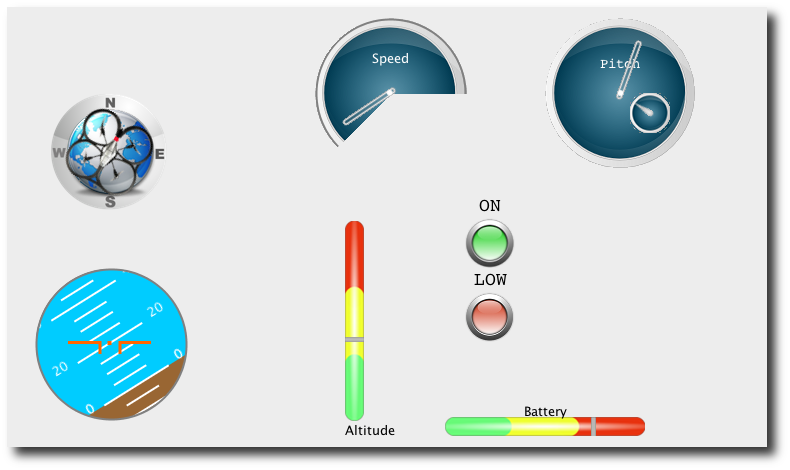
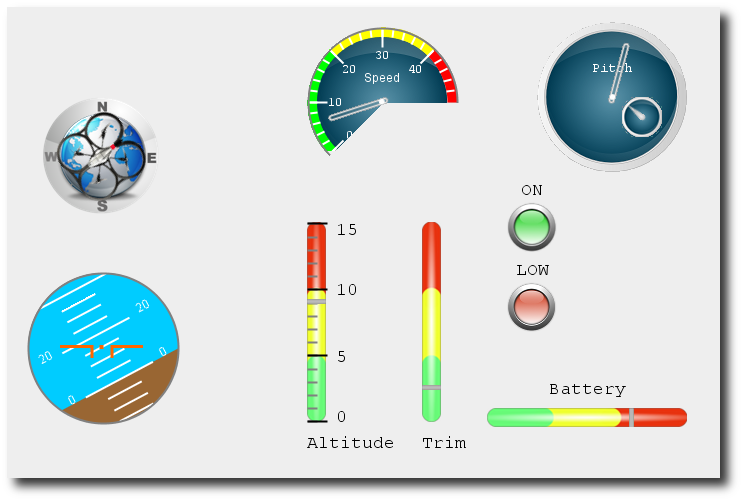
Update cockpit picture.

diff --git a/src/jmp/ui/component/test/TestCockpit.java b/src/jmp/ui/component/test/TestCockpit.java
@@ -196,7 +196,7 @@ public class TestCockpit extends JFrame{
 		rollSlider.setBorder(BorderFactory.createTitledBorder("Roll"));
 		sliderPane.add(rollSlider);
 		
-		final JSlider speedSlider = new JSlider(JSlider.HORIZONTAL,0,100,0);
+		final JSlider speedSlider = new JSlider(JSlider.HORIZONTAL,0,50,0);
 		speedSlider.setToolTipText("Speed");
 		speedSlider.setMajorTickSpacing(50);
 		speedSlider.setMinorTickSpacing(10);
@@ -501,9 +501,9 @@ public class TestCockpit extends JFrame{
 		dialTicksRenderingModel.setLabelColor(Color.WHITE);
 		dialTicksRenderingModel.setMajorTickSize(25);
 		ColoredRanges colorRanges = new ColoredRanges();
-		colorRanges.addRange(new ColoredRange(0, 40, Color.GREEN));
-		colorRanges.addRange(new ColoredRange(40, 80, Color.YELLOW));
-		colorRanges.addRange(new ColoredRange(80, 100, Color.RED));
+		colorRanges.addRange(new ColoredRange(0, 20, Color.GREEN));
+		colorRanges.addRange(new ColoredRange(20, 40, Color.YELLOW));
+		colorRanges.addRange(new ColoredRange(40, 50, Color.RED));
 		DialColoredRenderingModel colorModel = new DialColoredRenderingModel();
 		colorModel.setColorRanges(colorRanges);
 		colorModel.setThickness(10);
@@ -512,7 +512,8 @@ public class TestCockpit extends JFrame{
 		ticksModel.setMinorGraduationColor(Color.WHITE);
 		ticksModel.setMajorTickSize(20);
 		ticksModel.setMinorTickSize(10);
-		ticksModel.setMinorTickSpacing(10);
+		ticksModel.setMajorTickSpacing(10);
+		ticksModel.setMinorTickSpacing(2);
 		ticksModel.setLabelColor(Color.WHITE);
 		ticksModel.setLabelFont(new Font("Monospaced", Font.PLAIN, 12));
 		ticksModel.setLabelSpace(3);
@@ -522,7 +523,7 @@ public class TestCockpit extends JFrame{
 		model.addModel("border", new DialBorderRenderingModel());
 		model.addModel("label", new DialLabelRenderingModel("Speed", new Point(0, -20)));
 		model.addModel("ticks", ticksModel);
-		model.addModel("value", new DefaultBoundedModel(0,100,0));
+		model.addModel("value", new DefaultBoundedModel(0,50,0));
 		this.dialPartialView.setModel(model);
 		
 		componentsPane.add(this.dialPartialView);
